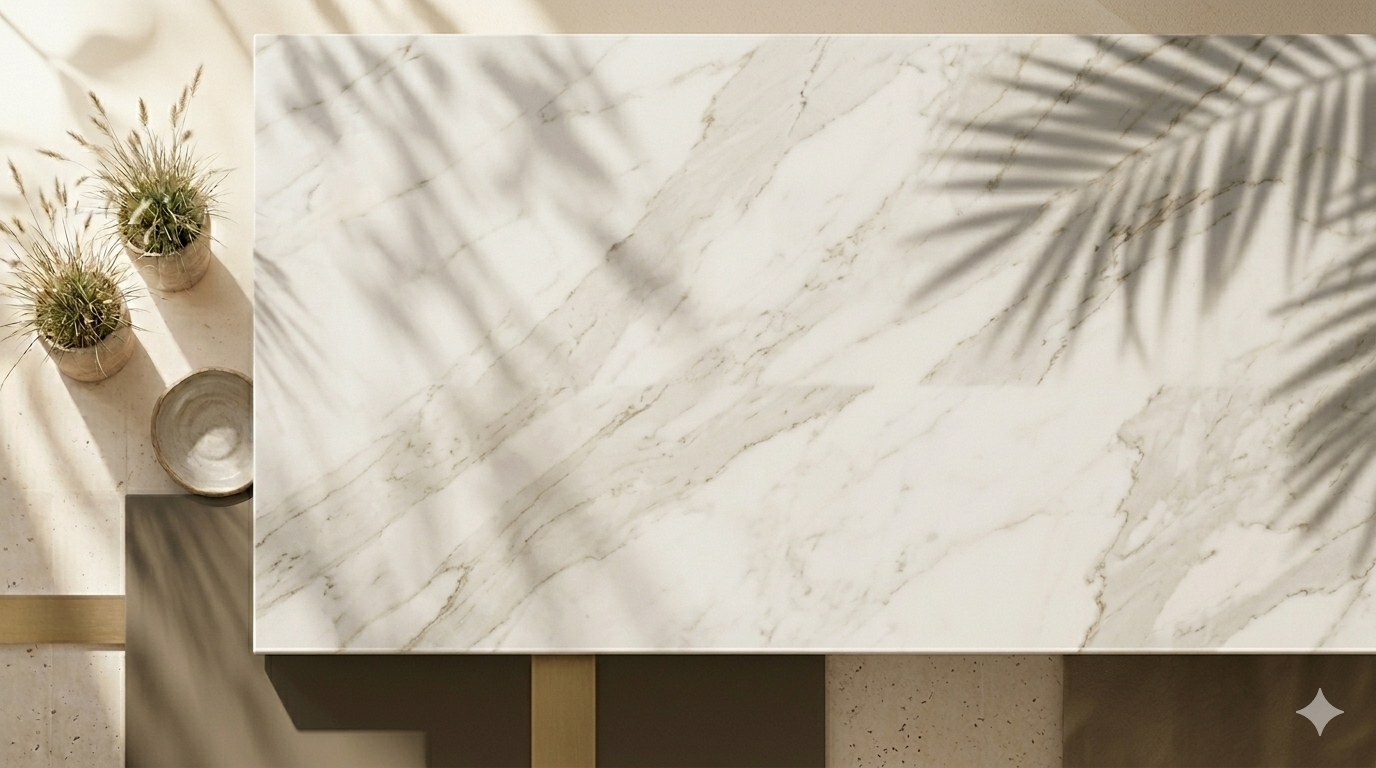
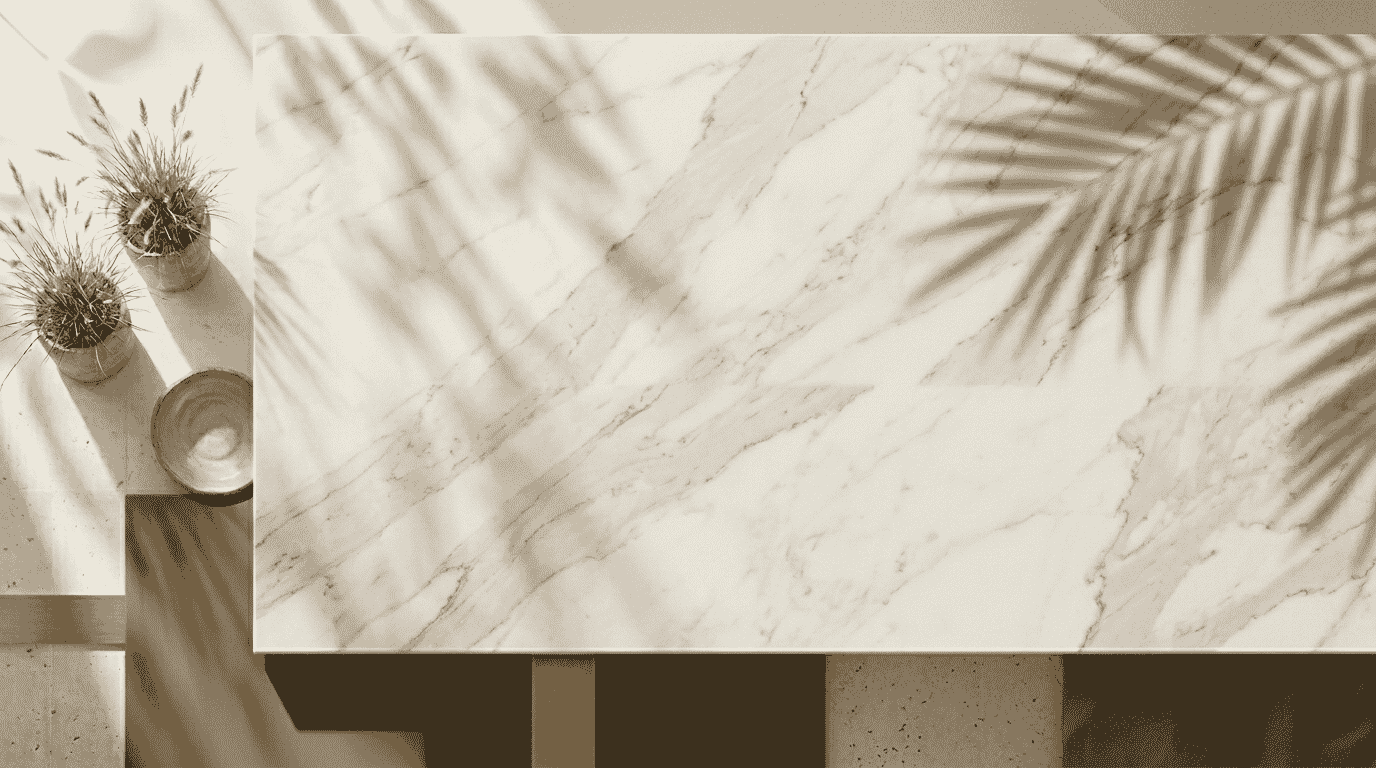
Dodanie css do sekcji 'O mnie' na stronie głównej

diff --git a/assets/css/main.css b/assets/css/main.css
@@ -237,3 +237,32 @@ header {
         height: 100vh;
     }
 }
+
+.o-mnie__zdjecie {
+    width: 100%;
+}
+
+.o-mnie__tekst {
+    padding: 3rem;
+    display: flex;
+    flex-direction: column;
+    gap: 1.2rem;
+}
+
+.o-mnie__box-liczby {
+    display: flex;
+    flex-direction: row;
+    justify-content: space-between;
+    flex-wrap: wrap;
+    gap: 10px;
+}
+
+.o-mnie__liczba {
+    display: inline-block;
+    width: 30%; 
+    border-right: 1px solid var(--tekst-glowny);
+}
+
+.o-mnie__liczba:last-child {
+    border-right: none;
+}

diff --git a/templates/front-page.php b/templates/front-page.php
@@ -34,16 +34,18 @@
             <p class="hero__description">Wnętrza projektowane raz. Na zawsze.</p>
         </section>
         <section class="o-mnie">
-            <img class="o-mnie__zdjecie" src="" alt="">
+            <img class="o-mnie__zdjecie" src="<?php echo get_stylesheet_directory_uri() . '/assets/images/k-rozbicka-o-mnie.png' ?>" alt="">
             <div class="o-mnie__tekst">
                 <p class="eyebrow">O mnie</p>
                 <h2>Katarzyna <em>Rozbicka</em></h2>
                 <p class="o-mnie__opis">Od ponad 10 lat tworzę przestrzenie, które stają się naturalnym przedłużeniem osobowości ich właścicieli. Nie interesuje mnie powtarzalność ani ślepe podążanie za trendami — każdy projekt zaczynam od rozmowy, bo tylko tak można stworzyć wnętrze, które naprawdę trwa.</p>
                 <p class="o-mnie__opis">Pracuję kompleksowo — od pierwszego szkicu po nadzór nad realizacją. Moim klientom zapewniam spokój i pewność, że każdy etap jest pod kontrolą.</p>
-                <p class="o-mnie-liczby">10+ lat praktyki</p>
-                <p class="o-mnie-liczby">60+ zrealizowanych wnętrz</p>
-                <p class="o-mnie-liczby">100% autorski nadzór</p>
-                <a href="">Umów rozmowę</a>
+                <div class="o-mnie__box-liczby">
+                    <p class="o-mnie__liczba">10+ lat praktyki</p>
+                    <p class="o-mnie__liczba">60+ zrealizowanych wnętrz</p>
+                    <p class="o-mnie__liczba">100% autorski nadzór</p>
+                </div>
+                <a href="">Więcej o mnie</a>
             </div>
         </section>
         <section class="realizacje"></section>